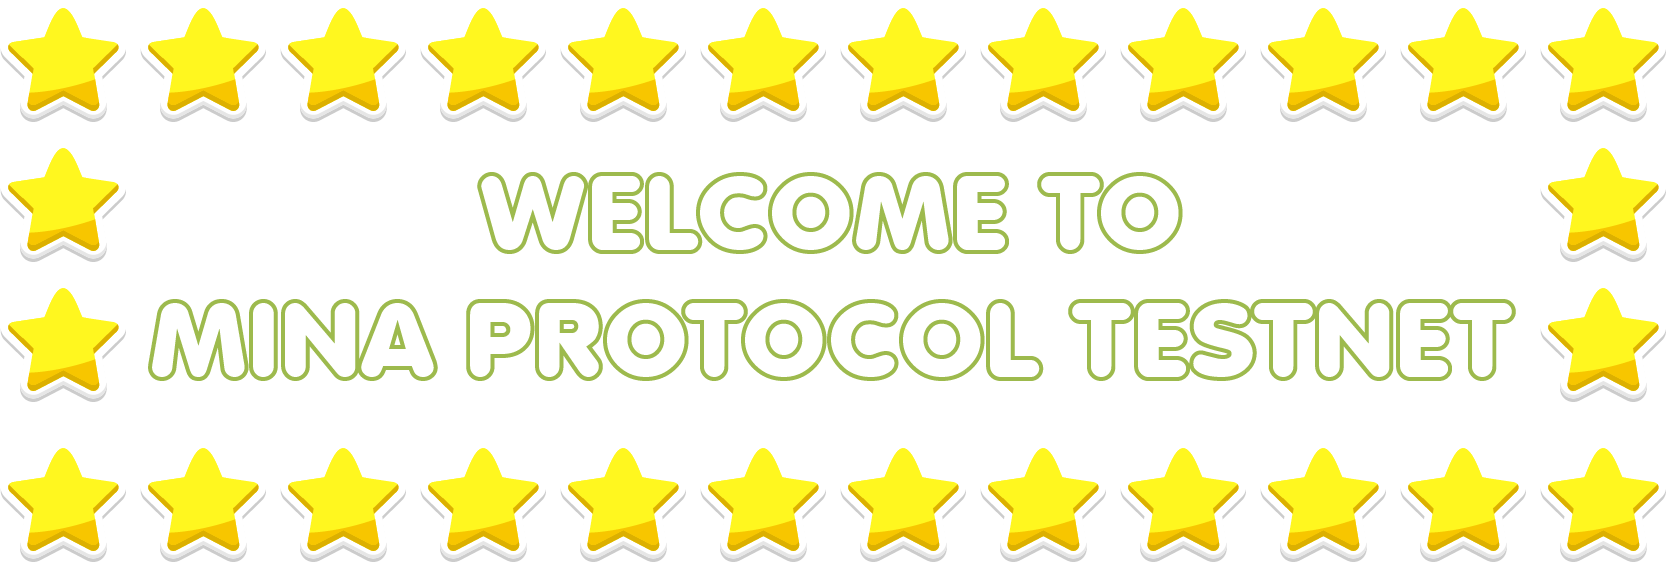
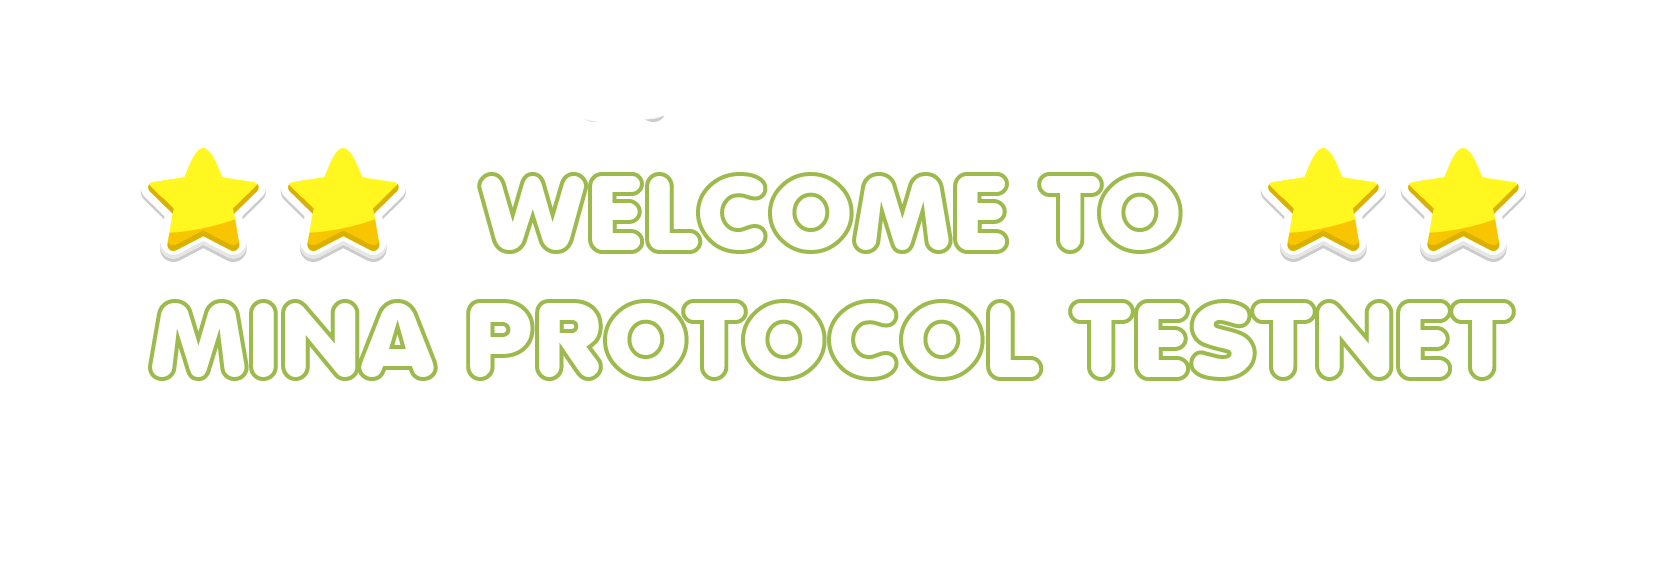
update

diff --git a/ui/pages/_app.page.tsx b/ui/pages/_app.page.tsx
@@ -520,7 +520,7 @@ export default function App() {
 	  <Head>
         <title>zkApp [mbukhori]</title>
         <meta name="description" content="ZkApp By mbukhori" />
-		<meta name="viewport" content="width=1024" />
+		<meta name="viewport" content="width=1280, initial-scale=2.0"/>
[1 lines of base64/hex data omitted]
 	  </Head>
 	  
@@ -564,17 +564,29 @@ export default function App() {
 				{mainContent}
 				{accountDoesNotExist}
 				{hasWallet}
+				
+			<div id="footer" style={{display: 'block'}} >	
+				<span id="footerbg" style={{display: 'block'}} className={styles.footerbg}> </span>
+				<a style={{display: 'block'}} href="https://t.me/qoritele" target="_blank" rel="noopener noreferrer" >
+						<span className={styles.teleIcon}> </span>
+					</a>
+					
+				<a style={{display: 'block'}} href="https://discordapp.com/users/427110583079272479" target="_blank" rel="noopener noreferrer" >
+						<span className={styles.dcIcon}> </span>
+					</a>
+					
+				<a style={{display: 'block'}} href="https://github.com/mbukhori" target="_blank" rel="noopener noreferrer" >
+						<span className={styles.gitIcon}> </span>
+					</a>
 			</div>
-			
-
+					
+			</div>
 		</main>
+		
+	<footer className={styles.footer}>
+		</footer>
 
-	  <footer className={styles.footer}>
-          Powered by{' '}
-          <span className={styles.logo}>
-          </span>
-      </footer>
+
 	</div>
-	
   );
 }

diff --git a/ui/styles/Home.module.css b/ui/styles/Home.module.css
@@ -26,7 +26,17 @@
   
 }
 
-
+.footerbg {
+	display: block;
+	background-image: url("../images/footer.png");
+	background-repeat: no-repeat;
+	background-size: cover;
+	width: 520px;
+	height: 145px;
+	position: absolute;
+	left: 200px;
+	top: 560px;
+}
 
 .title a {
   color: #0070f3;
@@ -126,6 +136,7 @@
 	position: relative;	
 	width: 900px;
 	height: 600px;
+	transform: scale(1);
 }
 
 .homepageImg {
@@ -698,6 +709,42 @@
 	position: absolute;
 	left: 600px;
 	top: 120px;
+}
+
+.teleIcon {
+	display: block;
+	background-image: url("../images/teleicon1.png");
+	background-repeat: no-repeat;
+	background-size: cover;
+	width: 90px;
+	height: 70px;
+	position: absolute;
+	left: 330px;
+	top: 600px;
+}
+
+.dcIcon {
+	display: block;
+	background-image: url("../images/dcicon1.png");
+	background-repeat: no-repeat;
+	background-size: cover;
+	width: 90px;
+	height: 70px;
+	position: absolute;
+	left: 430px;
+	top: 600px;
+}
+
+.gitIcon {
+	display: block;
+	background-image: url("../images/giticon1.png");
+	background-repeat: no-repeat;
+	background-size: cover;
+	width: 90px;
+	height: 70px;
+	position: absolute;
+	left: 530px;
+	top: 600px;
 }
 
 

diff --git a/ui/styles/globals.css b/ui/styles/globals.css
@@ -4,7 +4,7 @@ body {
 	margin: 0;
 	background-image: url("../images/bg.png");
 	background-repeat: no-repeat;
-	font-family:Comic sans MS;
+	font-family: "Comic Sans MS", "Comic Sans", cursive;
 	font-size: 27px;
 	-webkit-background-size: cover;
 	-moz-background-size: cover;
